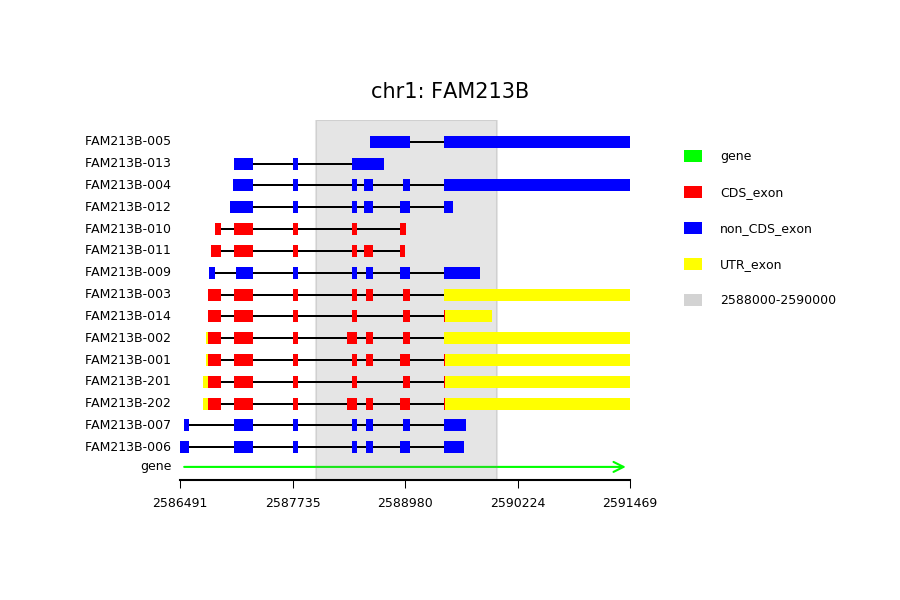
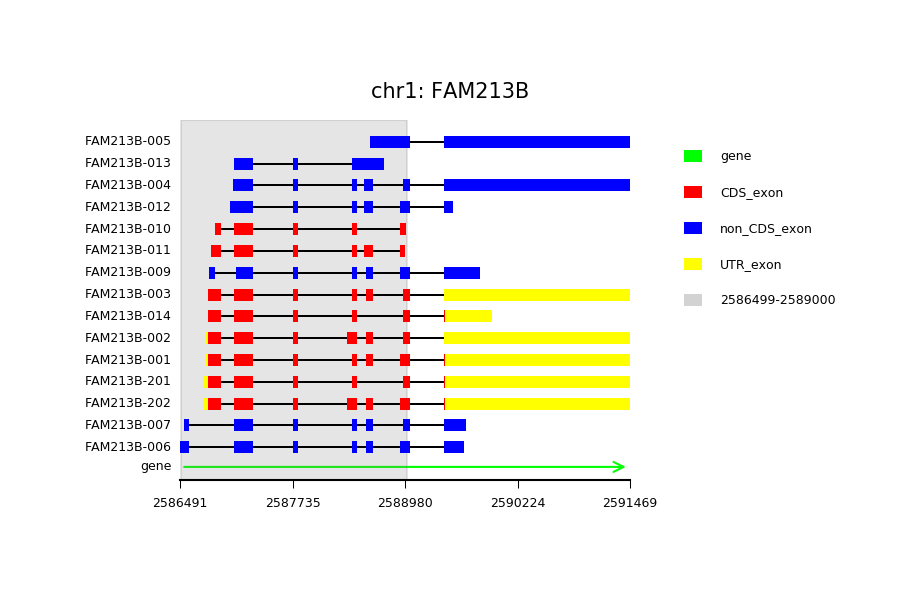
alpha edit

Changed region(s): [[0.1867, 0.18, 0.3733, 0.81], [0.4356, 0.18, 0.56, 0.81], [0.8089, 0.48, 0.9333, 0.51]]

diff --git a/my_script/class10/pos2gene.py b/my_script/class10/pos2gene.py
@@ -185,14 +185,87 @@ def find_overlap_gene_list(chr_info, chromosome, pos_start, pos_end):
     return(target_gene_list)
 
 
+def draw_pos_gene(overlap_genes, chr_info, pos_start, pos_end, chromosome):
+    import matplotlib.pyplot as plt
+    import matplotlib.patches as mpatches
+    import re
+    import numpy as np
+    import matplotlib.patches as patches
+    import matplotlib.transforms as transforms
+    if len(overlap_genes) > 0:
+        gene_info_list = []
+        for i in overlap_genes:
+            print(i)
+            gene_i = re.search(str(chromosome)+'\t.*?\tgene\t(.*?)\t(.*?)\t.*?\t(.*?)\t.*?gene_name "'+i+'";',chr_info)
+            gene_info_list.append(chr_info[slice(gene_i.span()[0], gene_i.span()[1])].split('\t')[3:5]+chr_info[slice(gene_i.span()[0], gene_i.span()[1])].split('\t')[6:7]+[i])
+        max_x = max([int(i[1]) for i in gene_info_list]+[int(i[0]) for i in gene_info_list]+[pos_start, pos_end])
+        min_x = min([int(i[1]) for i in gene_info_list]+[int(i[0]) for i in gene_info_list]+[pos_start, pos_end])
+        fig = plt.figure(1)
+        fig.patch.set_alpha(1)
+        fig.patch.set_facecolor('w')
+        ax = fig.add_axes([0.2,0.2,0.6,0.6])
+        y = 0
+        ax.set_ylim([0, (len(overlap_genes)+1)*0.1])
+        ax.spines['top'].set_visible(False)
+        ax.spines['left'].set_visible(False)
+        ax.spines['right'].set_visible(False)
+        ax.get_yaxis().set_visible(False)
+        ax.get_xaxis().tick_bottom()
+        ax.get_yaxis().tick_left()
+        ax.set_xlim([min_x,max_x])
+        ax.set_xticks([int(k) for k in np.linspace(min_x,max_x, 4)])
+        ax.set_xticklabels([int(k) for k in np.linspace(min_x,max_x, 4)])
+        ax.get_xaxis().set_tick_params(direction='out')
+        ax.tick_params(axis=u'y', which=u'both',length=0)
+        trans = transforms.blended_transform_factory(
+        ax.transData, ax.transAxes)
+        rect = patches.Rectangle((pos_start,0), width=pos_end-pos_start, height=1,
+                              transform=trans, color='yellow', alpha=0.5)
+        ax.add_patch(rect)
+        ax.tick_params(axis='x', colors='gray')
+        ax.spines['bottom'].set_color('gray')
+        for i in gene_info_list:
+            if i[2] == '+':
+                arr = '->'
+                text_x = i[0]
+                ha = 'right'
+            else:
+                arr = '<-'
+                text_x = i[1]
+                ha = 'left'
+                
+            y += 0.1
+            # define arrow for genes
+            arrow= mpatches.FancyArrowPatch(
+                (int(i[0]), y),
+                (int(i[1]), y),
+                arrowstyle= arr,
+                mutation_scale=25, lw=1, color='blue',antialiased=True, alpha=0.6)
+            ax.add_patch(arrow)
+            ax.text(text_x,y, i[-1] ,style='italic', ha=ha, va='center', color='blue', fontsize=200*6/(200+len(overlap_genes)*0.1))
+
+    fig.suptitle('\n\n\nchr' + str(chromosome)+ ': ' + str(pos_start) +'-'+str(pos_end), fontsize=10, color='red')
+    png_path = str(pos_start)+'-'+str(pos_end)+'.png'
+    fig.savefig(png_path, dpi=150)
+    return(png_path)
+
+
+
+
+
+
+
 
 def main(chromosome, pos_start, pos_end):
     os.chdir(r'E:\r\biotrainee_demo\class10')
     file = 'Homo_sapiens.GRCh38.87.chr.gtf'
     chr_info = get_chr_info(file, chromosome)
     overlap_genes = find_overlap_gene_list(chr_info, chromosome, pos_start, pos_end)
-    for i in overlap_genes:
-        draw_gene_structure(i,find_target_data(i, chr_info),pos_start,pos_end)
+    if len(overlap_genes) == 1:
+        for i in overlap_genes:
+            draw_gene_structure(i,find_target_data(i, chr_info),pos_start,pos_end)
+    else:
+        draw_pos_gene(overlap_genes, chr_info, int(pos_start), int(pos_end), int(chromosome))
     print('\nThere are %d genes in the position\n'%len(overlap_genes))
 
 if __name__ == '__main__':
@@ -202,9 +275,9 @@ if __name__ == '__main__':
     if not chromosome:
         chromosome = 1
     if not pos_start:
-        pos_start = 2588000
+        pos_start = 2075000
     if not pos_end:
-        pos_end = 2590000
+        pos_end = 2930999
     main(int(chromosome), int(pos_start), int(pos_end))
     
     
